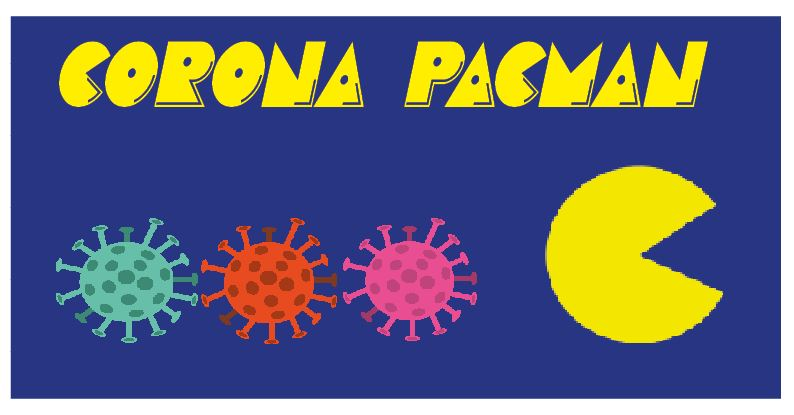
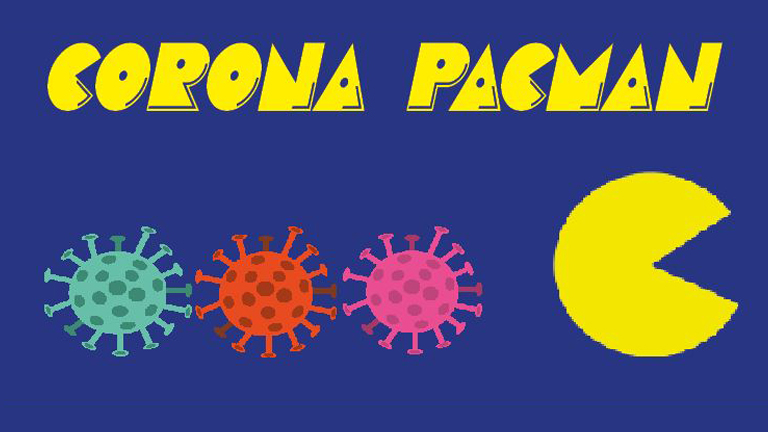
Changed a view things

diff --git a/private/css/index.css b/private/css/index.css
@@ -11,7 +11,7 @@
     width:80%;
     background-image: url("../img/pixel_art.jpg");
     background-size: cover;
-    background-position: center;
+    background-position: top;
     height:250px;
     margin:30px auto 0 auto;
     border-radius: 10px;
